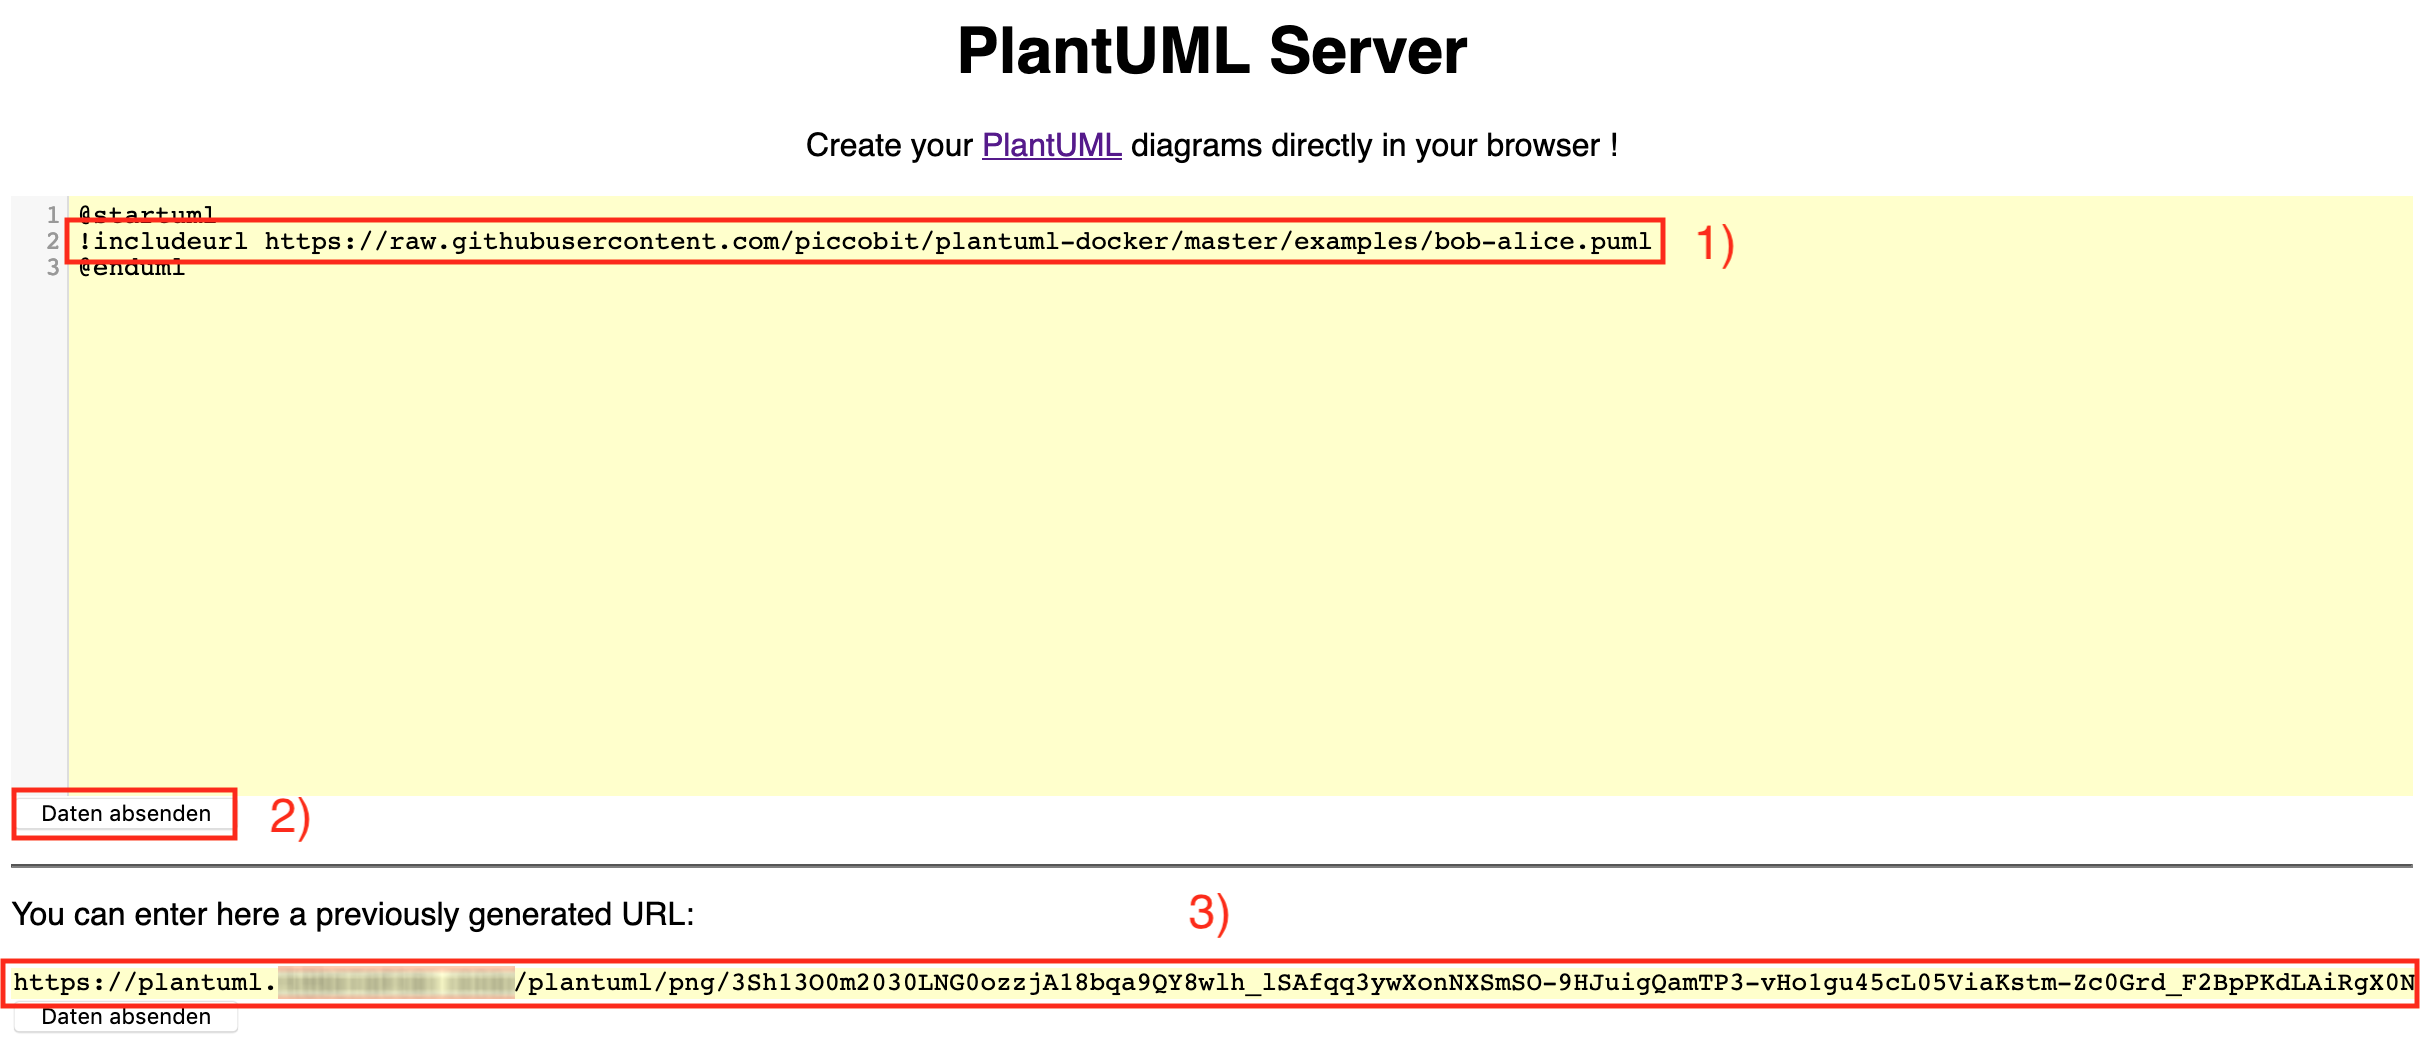
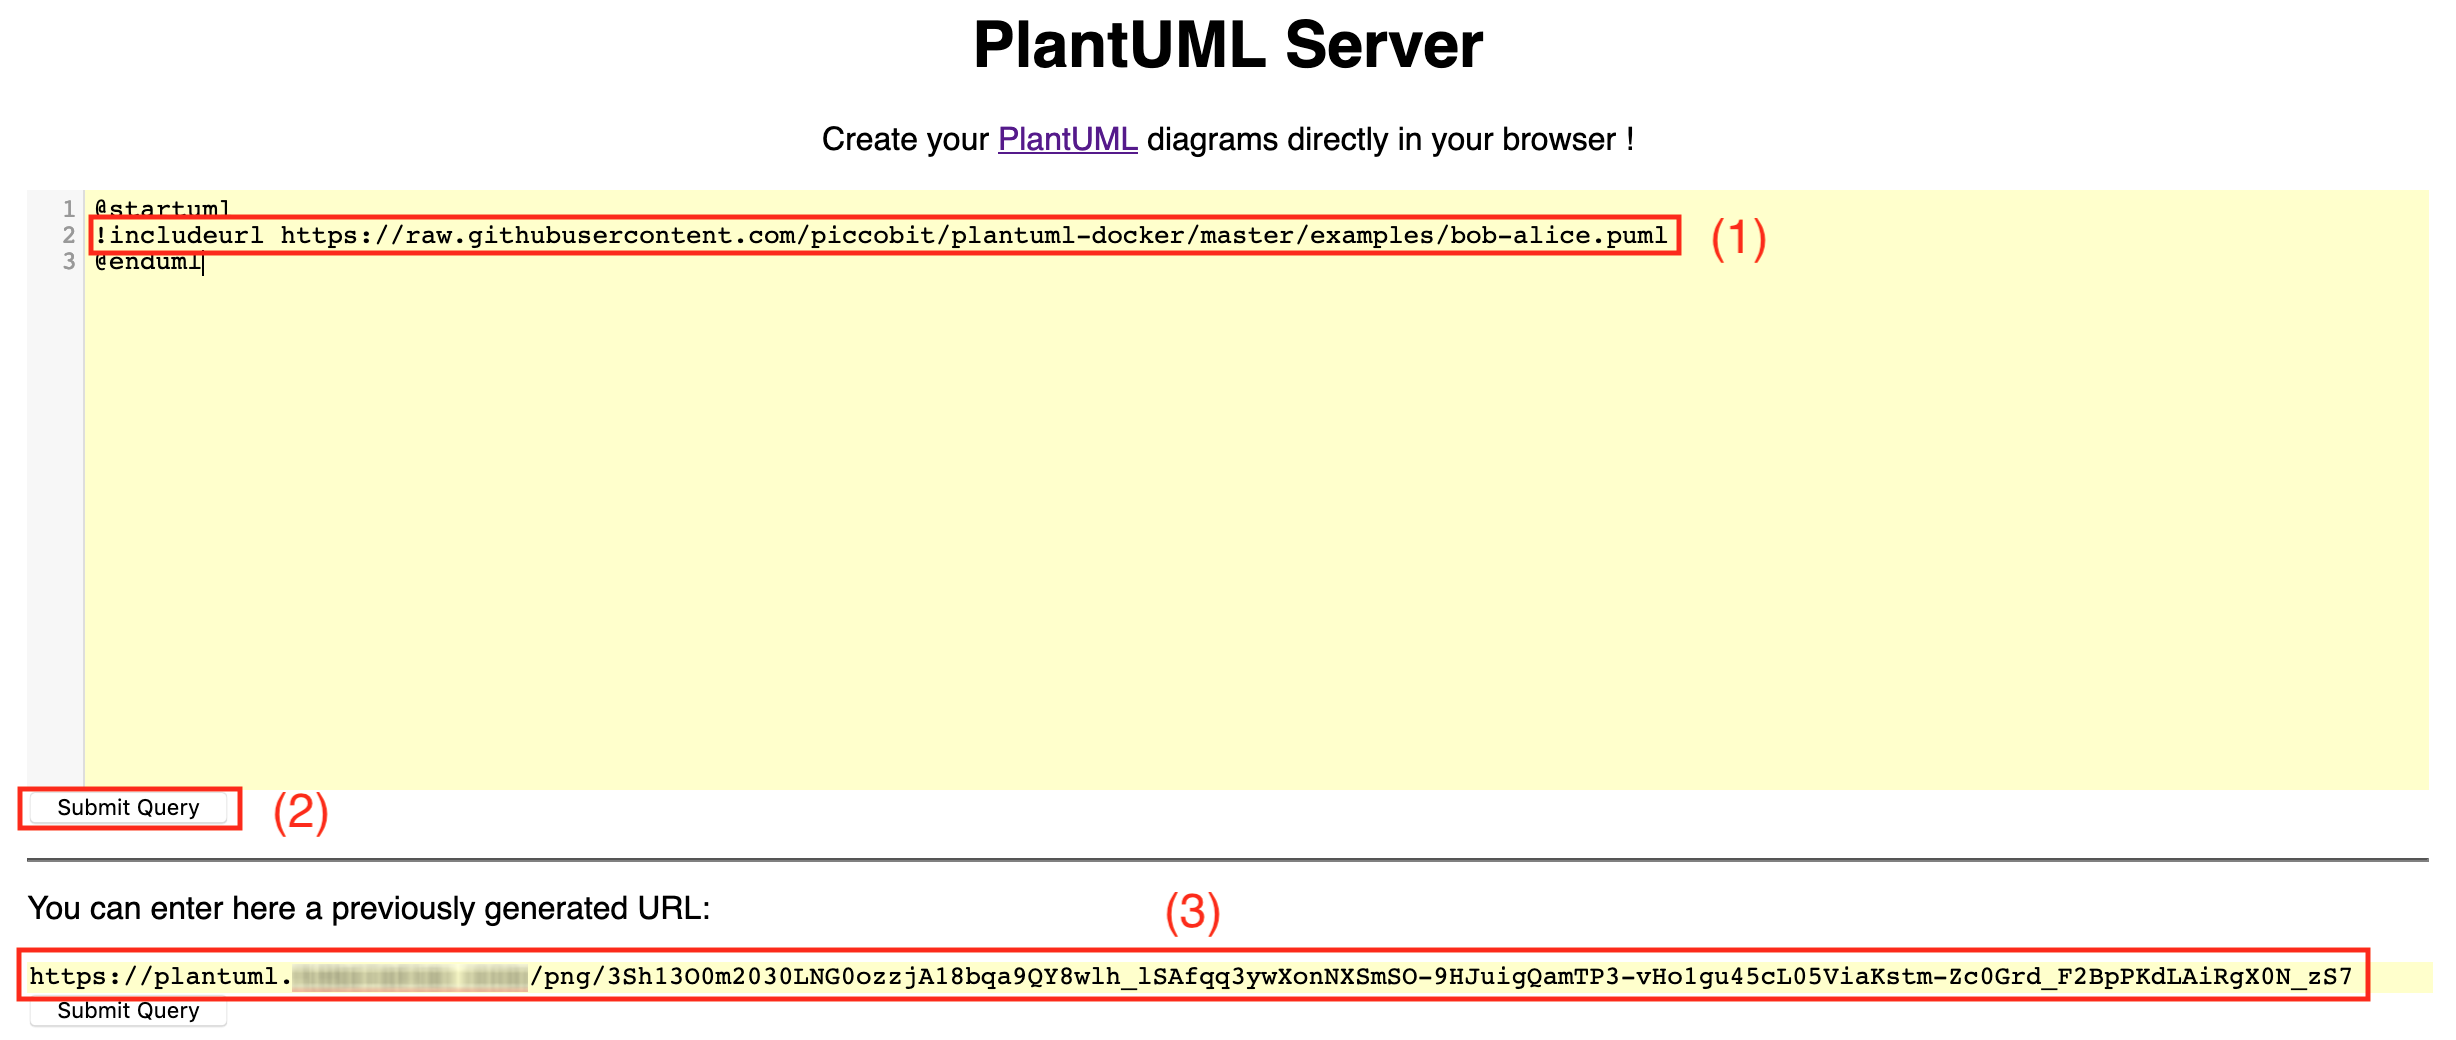
Changed language add more numbers

Changed region(s): [[0.0, 0.1846, 0.9984, 1.0], [0.3744, 0.0, 0.624, 0.0923], [0.312, 0.1231, 0.6552, 0.1538]]

diff --git a/README.md b/README.md
@@ -34,18 +34,18 @@ The [plantuml-server description](http://plantuml.com/de/server) provides a deta
 
 The [examples](examples) folder contains an example showing you how to use the plantUML-server to provide images for your GitHub Markdown files.
 
-First get the raw URL of your plantUML file:
+First get the raw URL of your plantUML file (1):
 
 ![](doc/images/raw-url.png)
 
-Go to your plantUML server, modify the below shown plantUML diagram with the raw URL of your plantUML file on GitHub:
+Go to your plantUML server, modify the below shown plantUML diagram with the raw URL of your plantUML file on GitHub (1):
 
 ![](doc/images/plantuml-url.png)
 
-Press the button below the input field and finally copy the generated plantUML server URL. This URL just points the plantURL server back to your plantUML file on GitHub and doesn't change as long as you don't change the name or location of the file.
+Press the '*Submit query*' button below the input field (2) and finally copy the generated plantUML server URL (3). This URL just points the plantURL server back to your plantUML file on GitHub and doesn't change as long as you don't change the name or location of the file.
 
-Insert this plantUML server URL into your Markdown file:
+Insert this plantUML server URL into your Markdown file (1):
 
 ![](doc/images/use-in-markdown.png)
 
-Replacing the `png` part in your plantUML server URL with `svg` renders your graph as SVG, but to get this also working on GitHub you have to sanitize the SVG first using the GitHub sanitizer by adding `&sanitize=1` do your SVG URL.
+Replacing the `png` part in your plantUML server URL with `svg` renders your graph as SVG (2), but to get this also working on GitHub you have to sanitize the SVG first using the GitHub sanitizer by adding `&sanitize=1` do your SVG URL (3).
